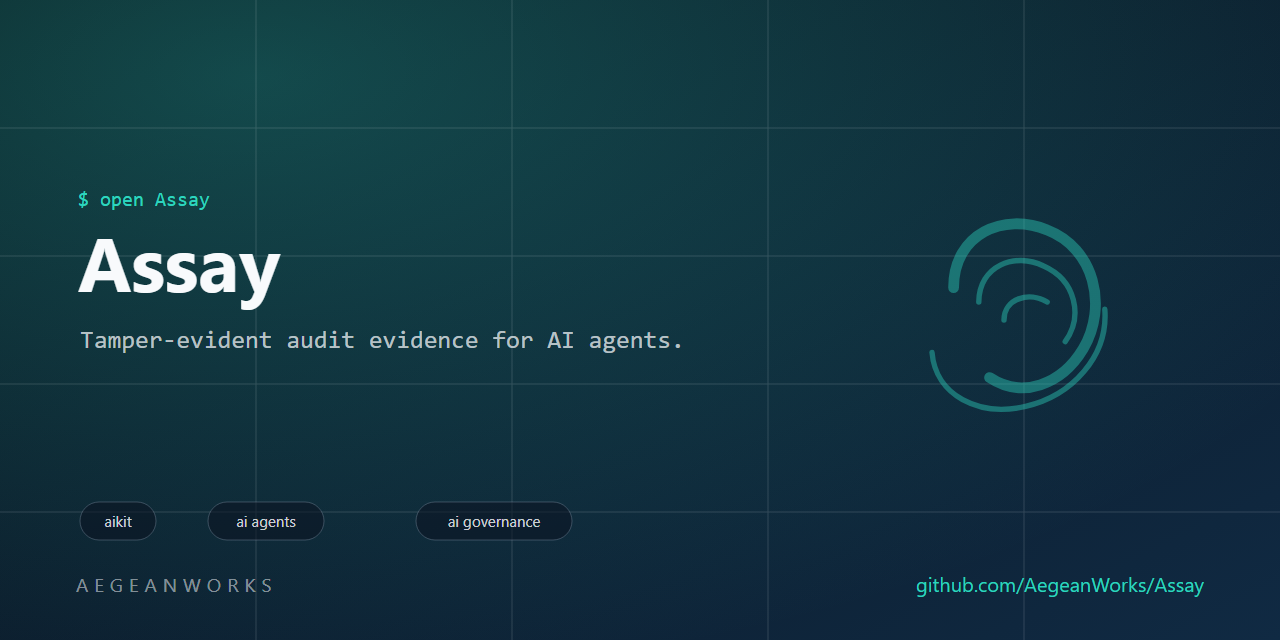
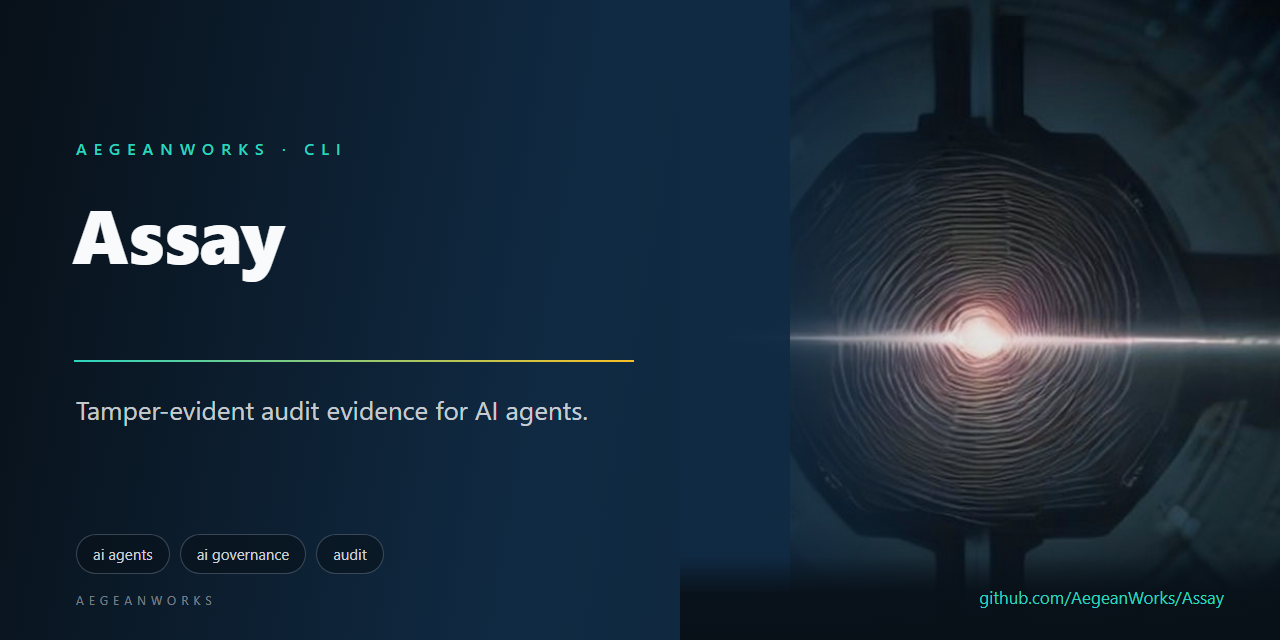
feat(brand): replace procedural marks with reviewed AI-art identities

diff --git a/README.md b/README.md
@@ -1,8 +1,8 @@
 # Assay
 
 <!-- aegean:media:start -->
-<p align="center"><img src="assets/logo.svg" alt="Assay logo" width="96" height="96"></p>
-<p align="center"><img src="assets/social-preview.svg" alt="Assay social preview" width="100%"></p>
+<p align="center"><img src="assets/logo.png" alt="Assay logo" width="96" height="96"></p>
+<p align="center"><img src="assets/social-preview.png" alt="Assay social preview" width="100%"></p>
 <!-- aegean:media:end -->
 
 [![Built with AIKit](https://img.shields.io/badge/built%20with-AIKit-6f42c1)](https://github.com/AegeanWorks/AIKit)
